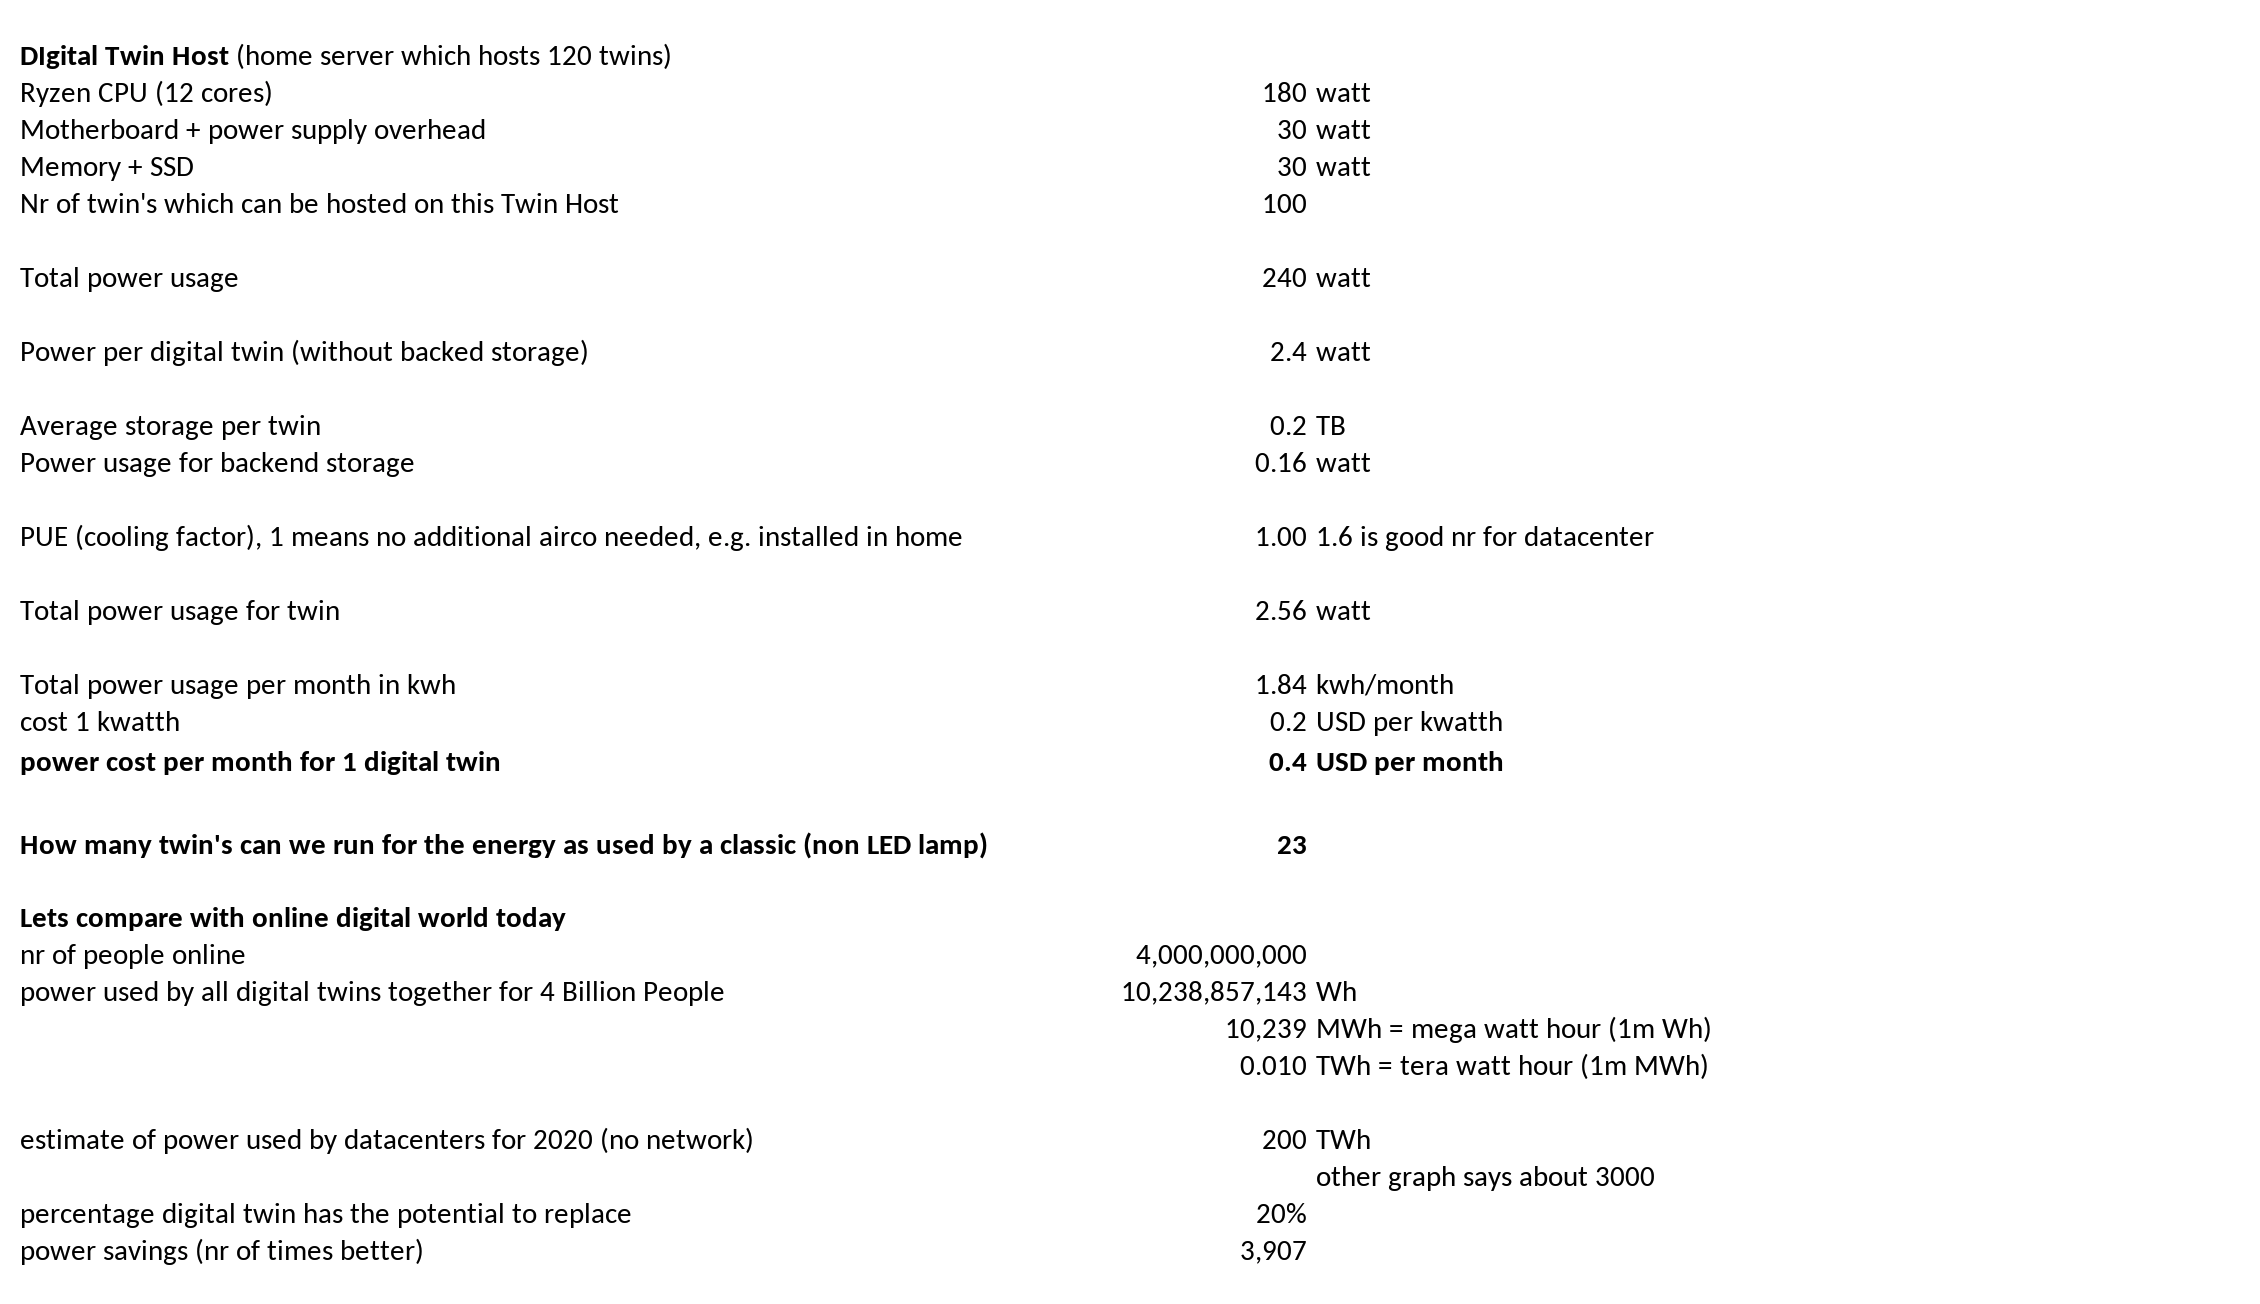
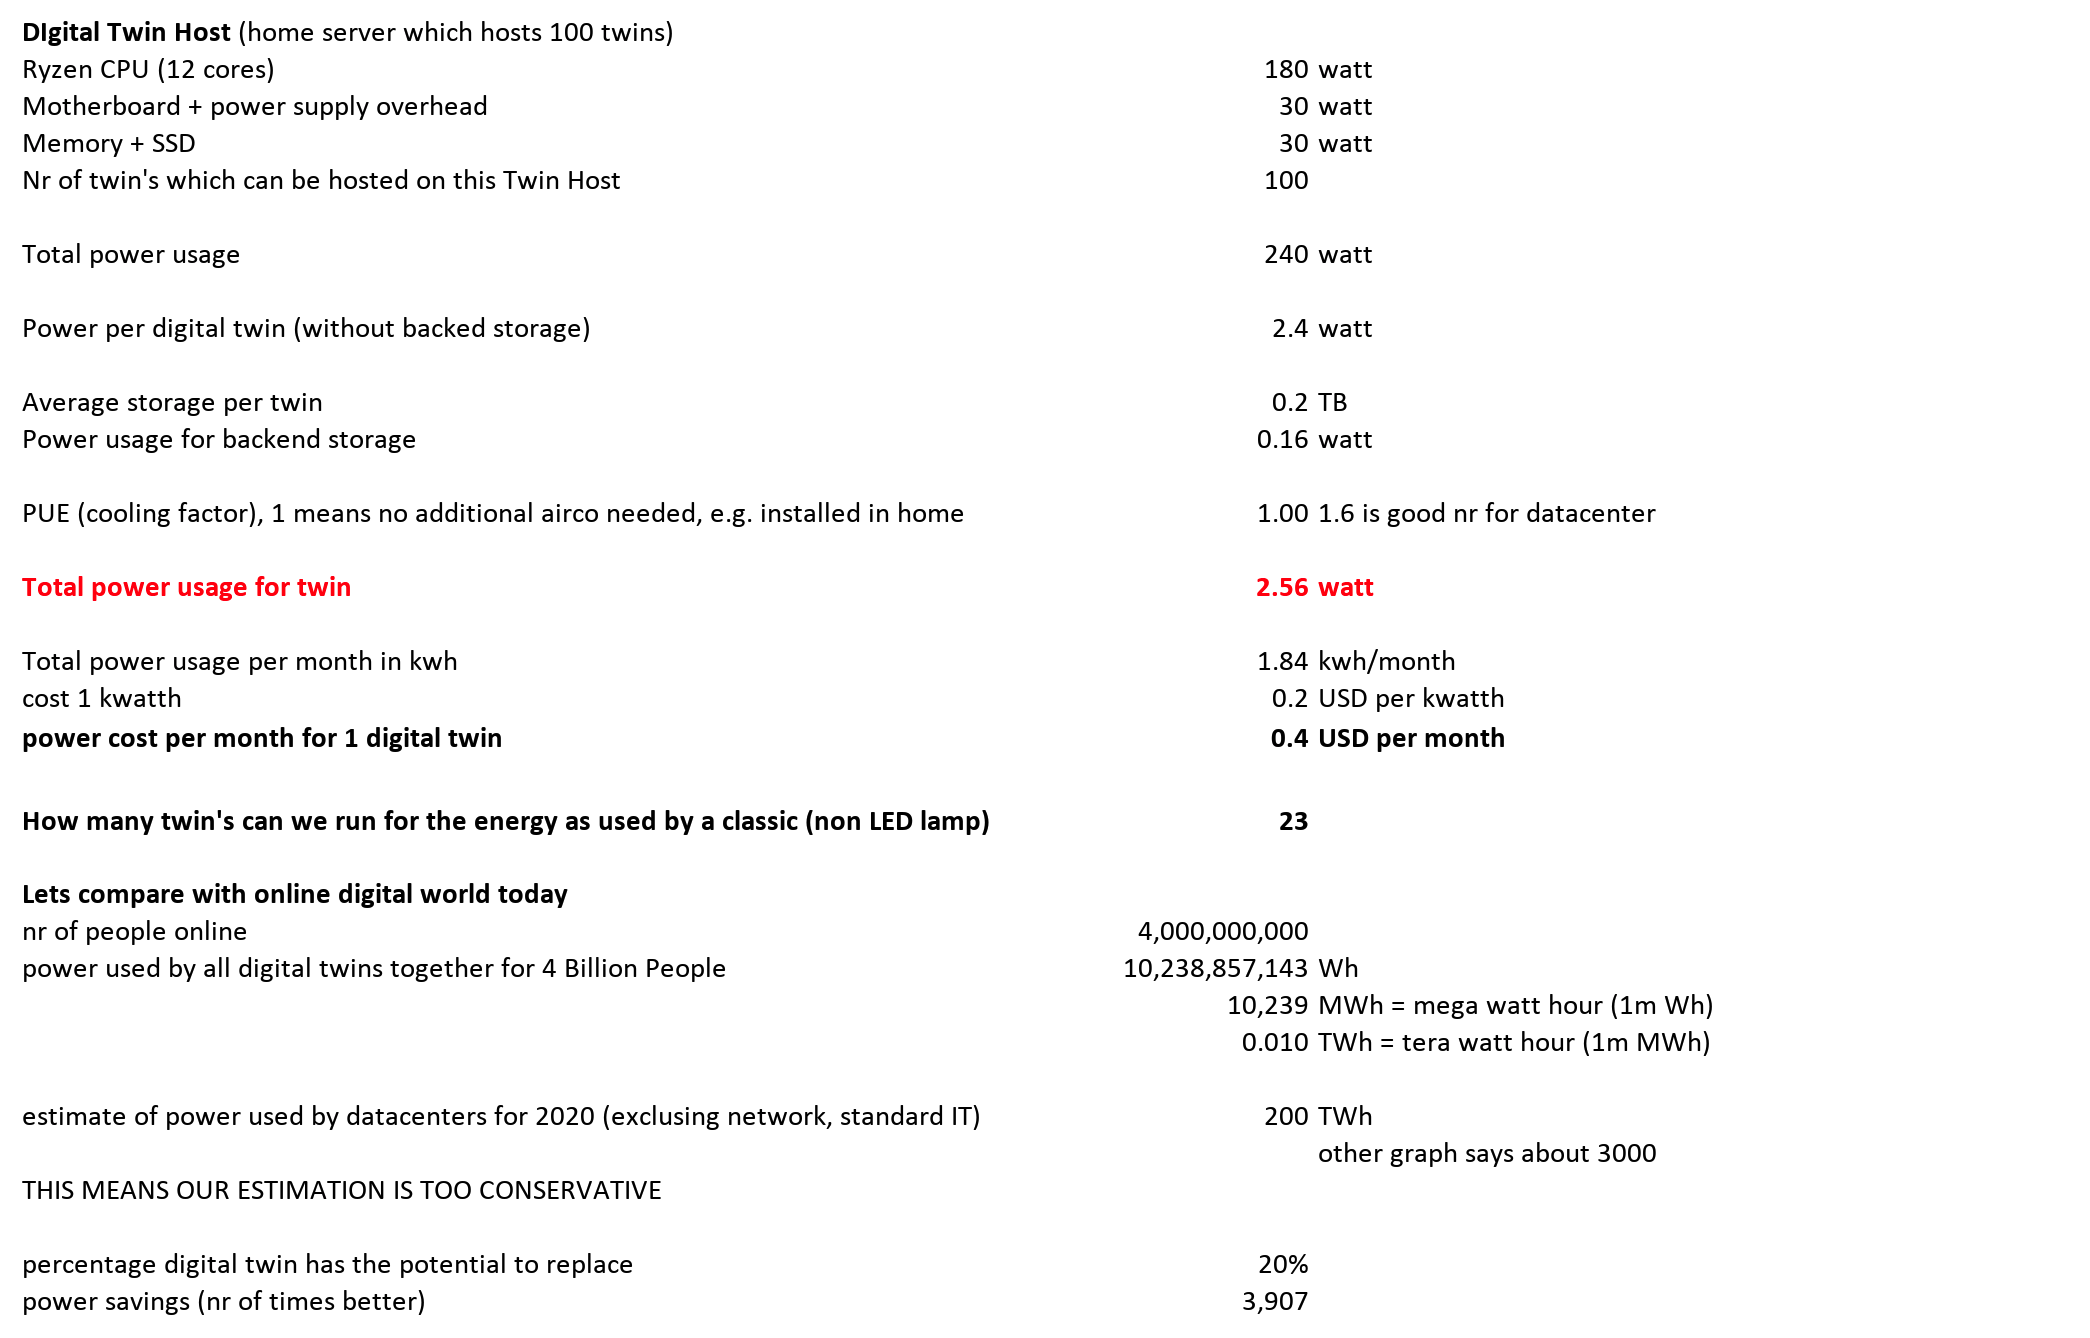
tokens

diff --git a/src/energy_savings/bulb_comparison_twin.md b/src/energy_savings/bulb_comparison_twin.md
@@ -8,7 +8,7 @@ We can run 23 digital_twins with the energy as used by one light bulb.
 
 ![](img/datacenter_power_usage.png)
 
-This graph says the world uses 200 TWh for datacenters.
+This graph says the world uses 200 TWh for datacenters allone (no generic IT workloads, no network, ...).
 
 This is a conservative nr, we have seen nr's 10x higher.
 
@@ -16,6 +16,6 @@ This is a conservative nr, we have seen nr's 10x higher.
 
 ![](img/compare_power_twin1.png)
 
-> If the digital twin only replaces 20% of IT market, in that market it would use 4000 less power in most conservative case already today.
+> If the digital twin only replaces 20% of this datacenter IT market, in that market it would use 4000 less power in most conservative case already today.
 
 !!!include:energy_savings_toc

diff --git a/src/energy_savings/energy_savings_digital_twin_calc.md b/src/energy_savings/energy_savings_digital_twin_calc.md
@@ -6,9 +6,8 @@
 
 Note
 
-- gaming & virtual reality usecases are not included in above use cases
-- we only compare with 20% of the total (see calc)
-- network is also out (in comparison as well as market nr)
+- network energy, AI, gaming & virtual reality energy utilization are not included (not in marketdata as well as in our calc)
+- we only compare with 20% of the total potential (is parameter) = we say our Twin only relevant for 20% of market. 
 
 This shows how a digital twin can be very power efficient way how to deliver a deliver a green digital life to everyone.
 

diff --git a/src/energy_savings/energy_savings_storage_calc.md b/src/energy_savings/energy_savings_storage_calc.md
@@ -6,7 +6,6 @@ Following calculation is done for a 100% online system (not near line) using low
 
 ![](img/power_cost_storage.png ':size=800x560')
 
-
 > We believe that this is at least 10x more power efficient compared to the other average storage systems, but probably much more.
 
 !!!include:energy_savings_calculator
